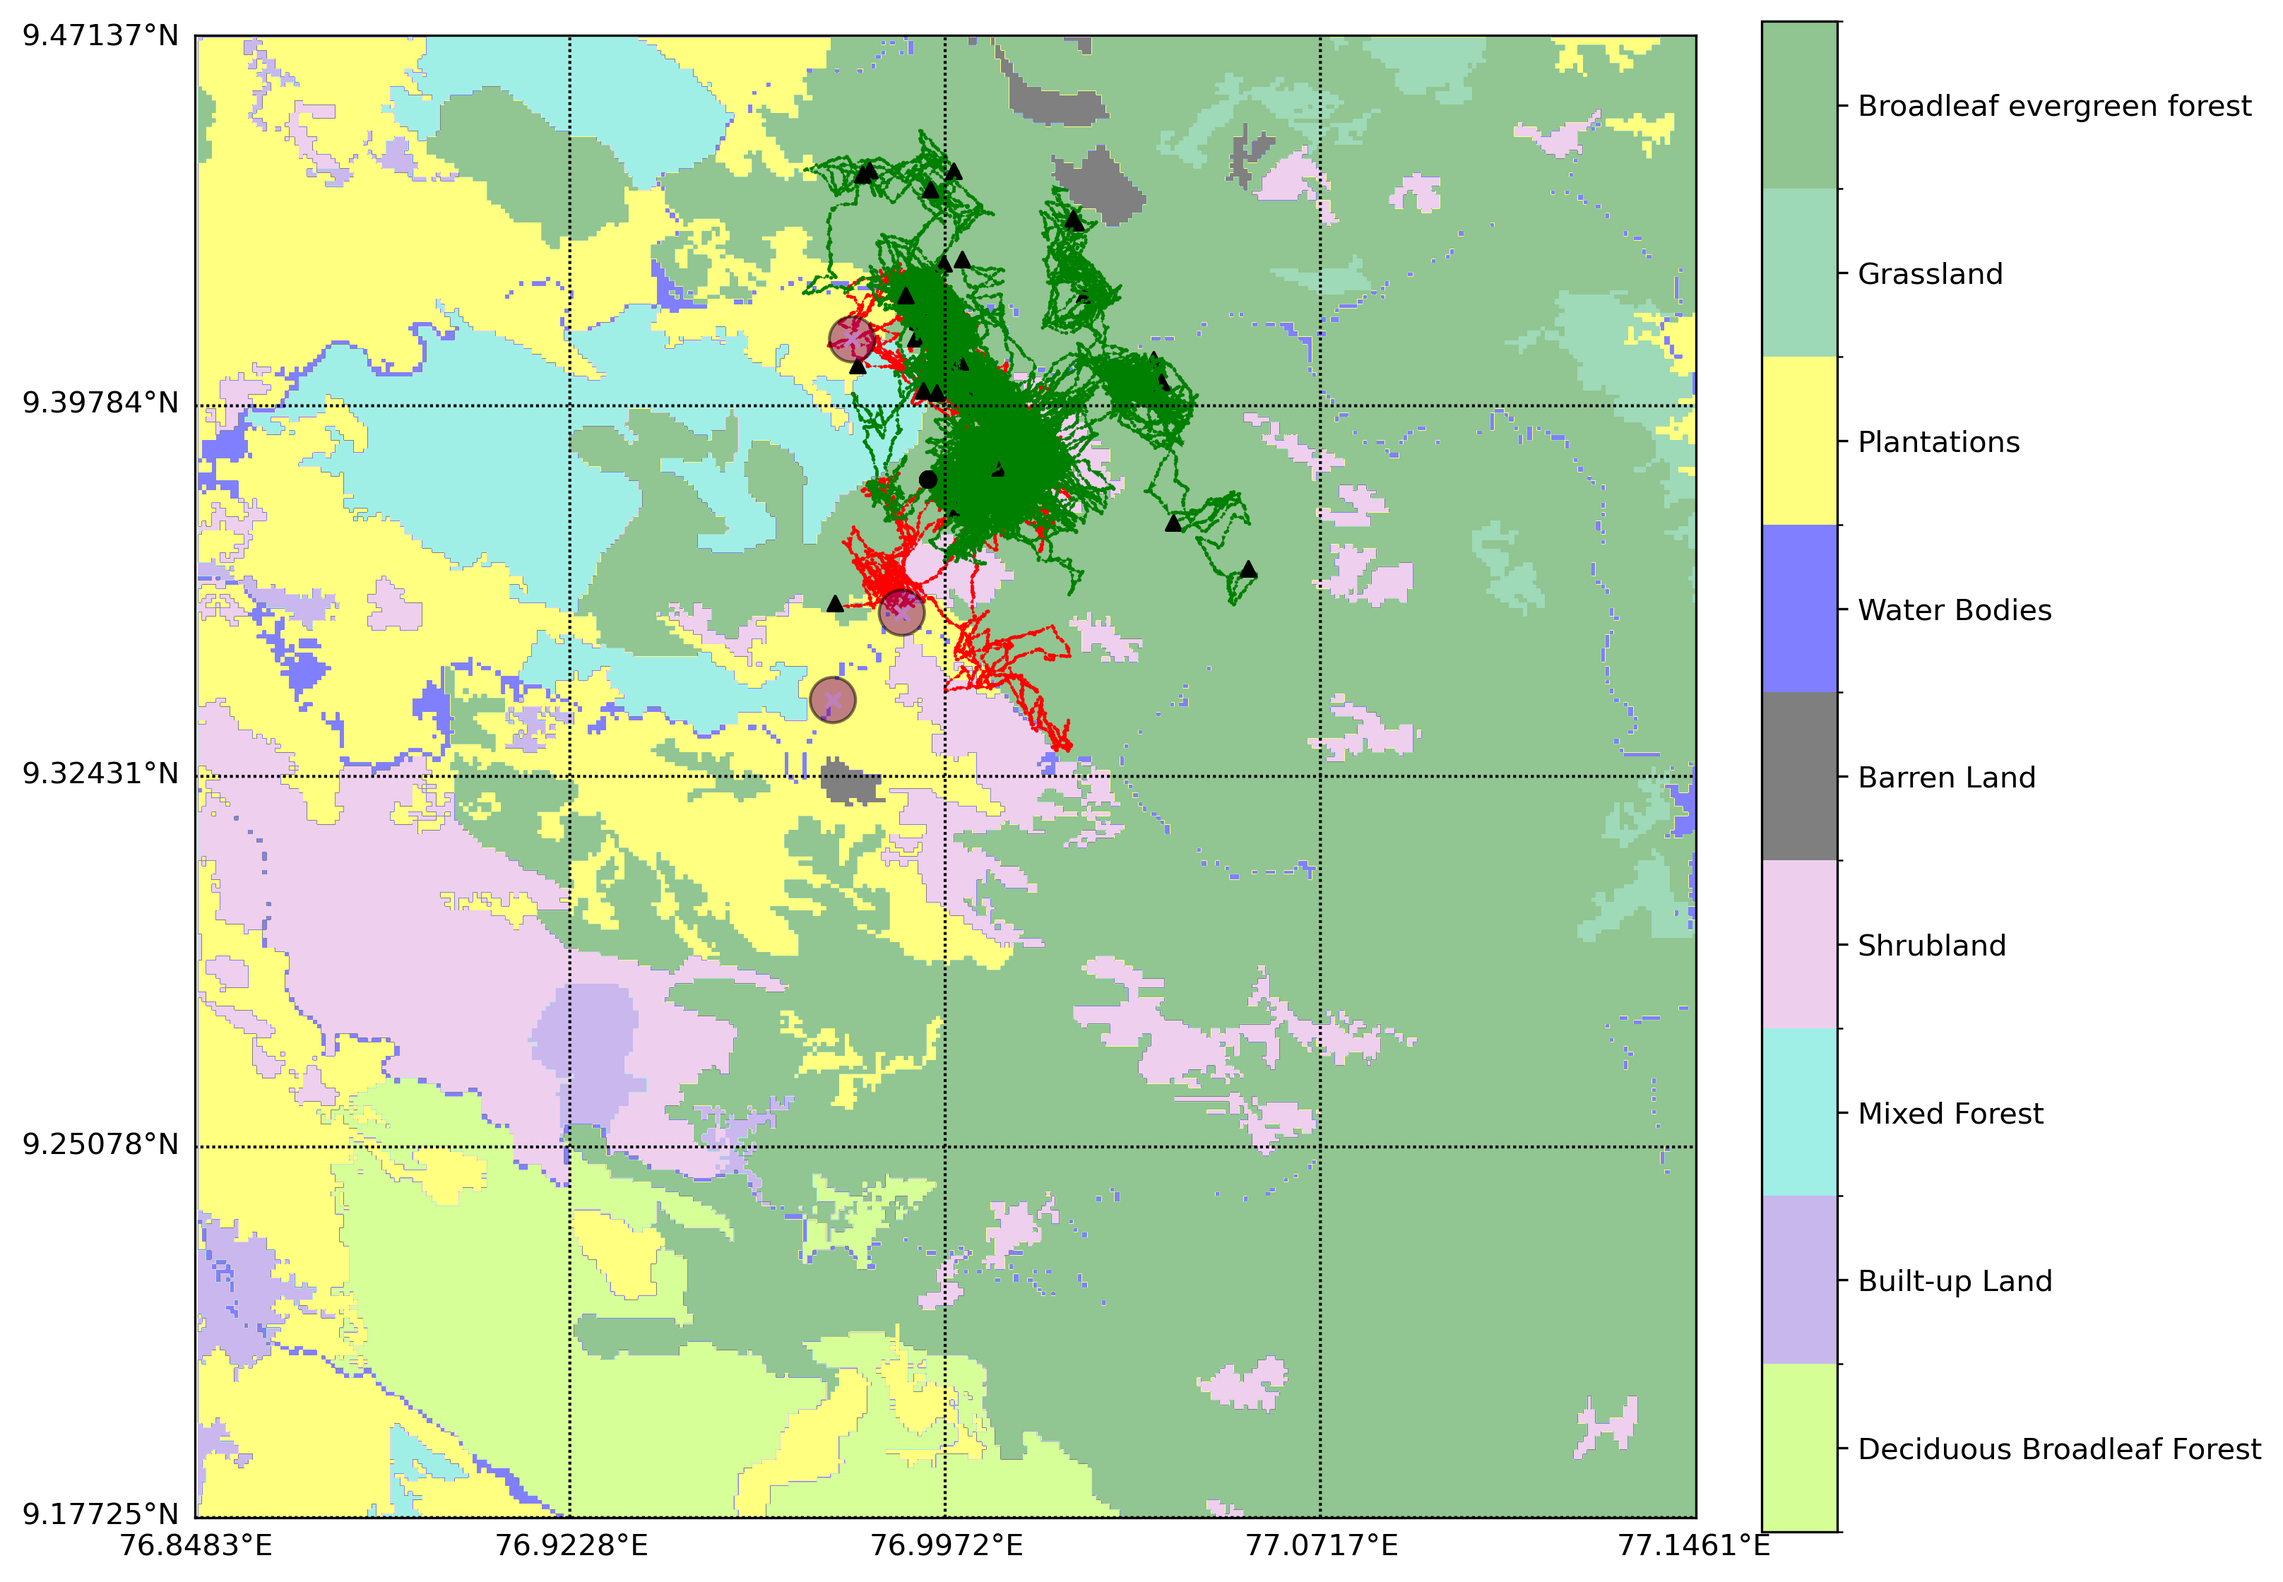
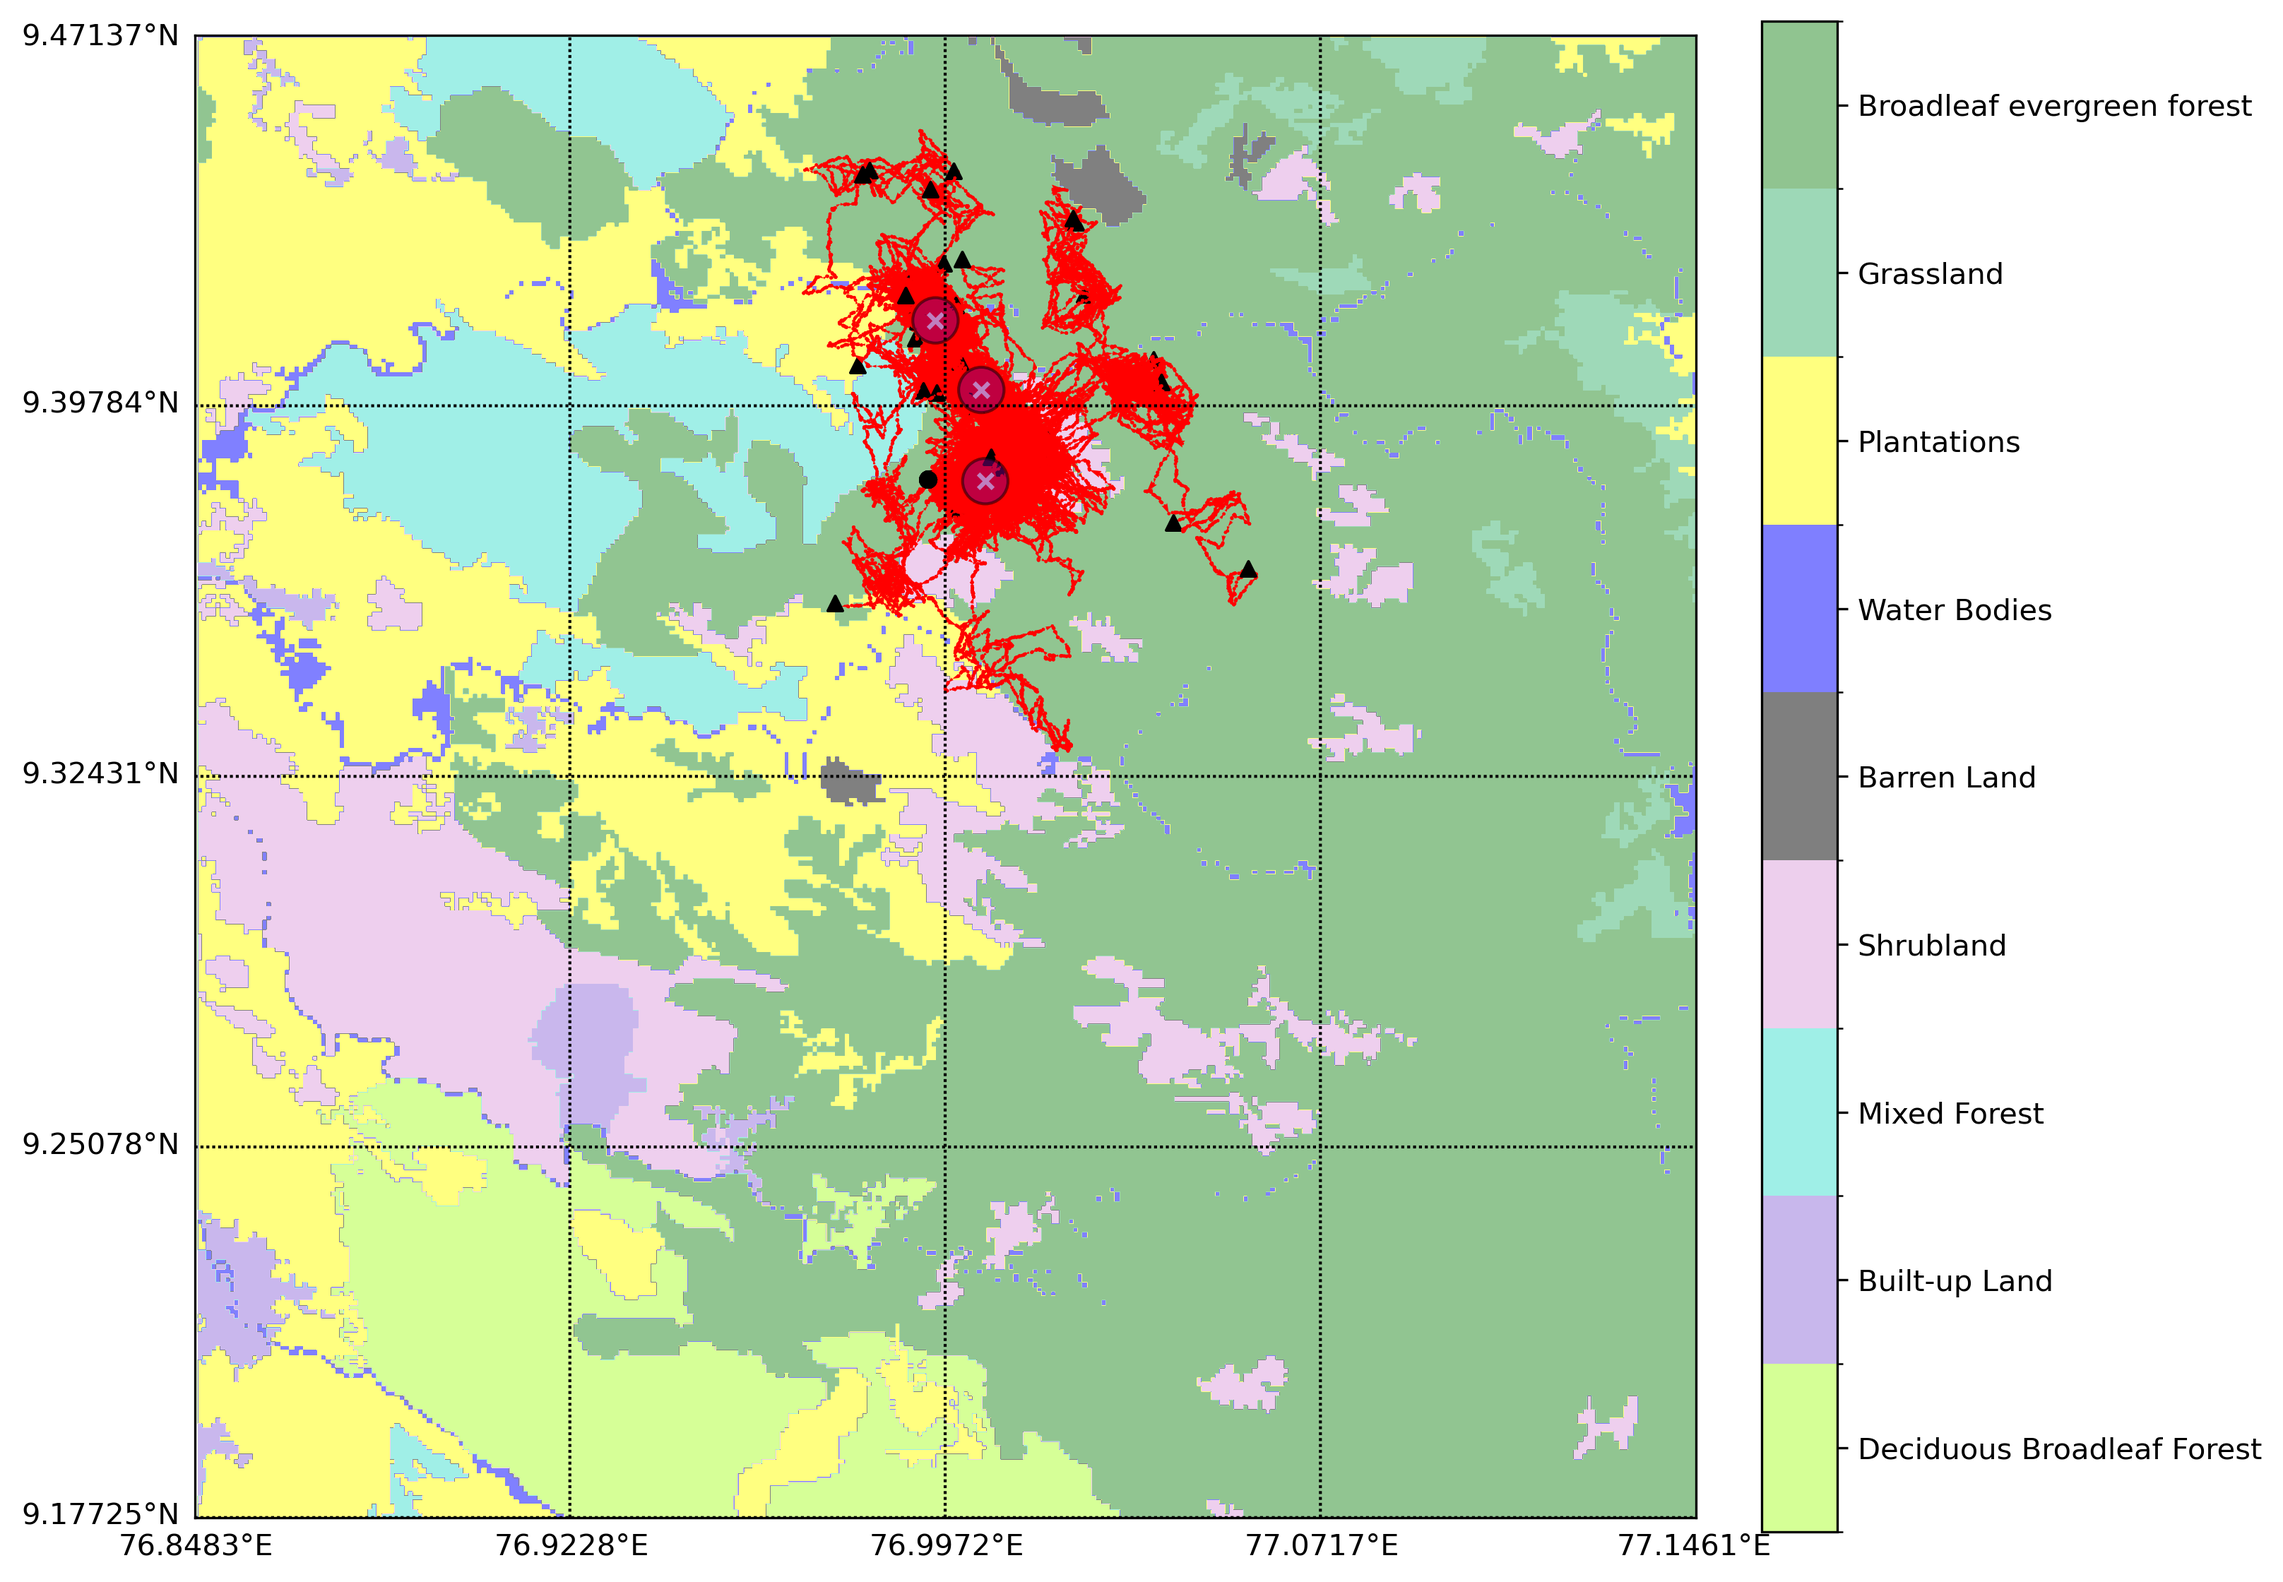
updated ranger placement optimisation

Changed region(s): [[0.3438, 0.0938, 0.5625, 0.375], [0.3438, 0.4062, 0.375, 0.4688], [0.375, 0.375, 0.4062, 0.4062]]

diff --git a/trajectory_analysis/assign_payoff_rangers/optimise_ranger_locations.py b/trajectory_analysis/assign_payoff_rangers/optimise_ranger_locations.py
@@ -34,6 +34,7 @@ class optimise_ranger_locations():
         self.ranger_visibility_radius = ranger_visibility_radius
         self.expt_folder = expt_folder
         self.loss_history = []
+        self.elephant_kde = None
 
         self.get_best_trajectories()
 
@@ -456,15 +457,17 @@ class optimise_ranger_locations():
             y
             ]).T
             
-        elephant_kde  = gaussian_kde(X.T)
+        if self.elephant_kde is None:
+            self.elephant_kde  = gaussian_kde(X.T)
 
-        lat_grid, lon_grid = np.mgrid[min(y): max(y):grid_resolution*1j, min(x): max(x):grid_resolution*1j]
-        positions = np.vstack([lon_grid.ravel(), lat_grid.ravel()])
+            self.lat_grid, self.lon_grid = np.mgrid[min(y): max(y):grid_resolution*1j, min(x): max(x):grid_resolution*1j]
+            positions = np.vstack([self.lon_grid.ravel(), self.lat_grid.ravel()])
+            elephant_density = np.reshape(self.elephant_kde(positions).T, self.lat_grid.shape)
+            self.elephant_density = elephant_density / elephant_density.max() 
+            
+            print("Elephant KDE fitted")
 
-        elephant_density = np.reshape(elephant_kde(positions).T, lat_grid.shape)
-        elephant_density = elephant_density / elephant_density.max() 
-        
-        ranger_coverage = np.zeros_like(elephant_density)
+        ranger_coverage = np.zeros_like(self.elephant_density)
         
         ranger_x, ranger_y = transform(inProj, outProj, 
                                     ranger_positions[:, 0], 
@@ -474,7 +477,7 @@ class optimise_ranger_locations():
         
         for i, (rx, ry) in enumerate(zip(ranger_x, ranger_y)):
 
-            distances = np.sqrt((lon_grid - rx)**2 + (lat_grid - ry)**2)
+            distances = np.sqrt((self.lon_grid - rx)**2 + (self.lat_grid - ry)**2)
 
             # fig, ax = plt.subplots(figsize=(6.8, 6.8))
             # map = Basemap(llcrnrlat=min(y), urcrnrlat=max(y), llcrnrlon=min(x), urcrnrlon=max(x), resolution='l')
@@ -510,13 +513,15 @@ class optimise_ranger_locations():
         map = Basemap(llcrnrlat=min(y), urcrnrlat=max(y), llcrnrlon=min(x), urcrnrlon=max(x), resolution='l')
         map.drawparallels([min(y), max(y)], labels=[True, False, False, True])
         map.drawmeridians([min(x), max(x)], labels=[True, False, False, True])
-        img = ax.imshow(np.flipud((1 - ranger_coverage) * elephant_density), cmap='coolwarm', alpha=0.75, extent=[min(x), max(x), min(y), max(y)], zorder=1)
+        img = ax.imshow(np.flipud((1 - ranger_coverage) * self.elephant_density), cmap='coolwarm', alpha=0.75, extent=[min(x), max(x), min(y), max(y)], zorder=1)
         plt.colorbar(img, ax=ax, orientation='vertical', shrink=0.5)
         plt.savefig(os.path.join(os.getcwd(), "trajectory_analysis/assign_payoff_rangers", 'uncovered_elephant_density.png'), dpi=300, bbox_inches='tight')
 
-        uncovered_score = np.sum((1 - ranger_coverage) * elephant_density) / np.sum(elephant_density)
+        uncovered_score = np.sum((1 - ranger_coverage) * self.elephant_density) / np.sum(self.elephant_density)
         total_cost = uncovered_score
         
+        self.loss_history.append(total_cost)
+
         return total_cost
 
     def plot_kde_95(self, ranger_locations, save_plots=False):
@@ -614,48 +619,52 @@ class optimise_ranger_locations():
 
         plt.close()
 
-    def optimize(self):
+    def optimize(self, starting_positions="kmeans"):
 
         initial_positions = []
 
         all_lons = np.concatenate([traj["longitude"].values for traj in self.best_trajs])
         all_lats = np.concatenate([traj["latitude"].values for traj in self.best_trajs])
 
-        # points = np.column_stack((all_lons, all_lats))
-        # kmeans = KMeans(n_clusters=self.num_rangers, random_state=42)
-        # kmeans.fit(points)
-        # initial_positions = kmeans.cluster_centers_.flatten()
-
-        ds = gdal.Open(os.path.join("mesageo_elephant_project/elephant_project/experiment_setup_files/environment_seethathode/Raster_Files_Seethathode_Derived/area_1100sqKm/reso_30x30/LULC.tif"))
-        data_LULC = ds.ReadAsArray()
-        data_value_map = {1:1, 2:3, 3:4, 4:5, 5:6, 6:9, 7:10, 8:14, 9:15}
-        for i in range(1,10):
-            data_LULC[data_LULC == data_value_map[i]] = i
-        xmin, xres, xskew, ymax, yskew, yres = ds.GetGeoTransform()
-        plantation_indices = np.where(data_LULC == 7)
-        plantation_points = []
-        for py, px in zip(*plantation_indices):
-            lon = xmin + px * xres
-            lat = ymax + py * yres
-            plantation_points.append([lon, lat])
-        plantation_points = np.array(plantation_points)
-
         lon_min = min(all_lons) 
         lon_max = max(all_lons) 
         lat_min = min(all_lats) 
         lat_max = max(all_lats)
 
-        plantation_points = plantation_points[(plantation_points[:,0] >= lon_min) & (plantation_points[:,0] <= lon_max) & (plantation_points[:,1] >= lat_min) & (plantation_points[:,1] <= lat_max)]
-        indices = np.random.choice(len(plantation_points), self.num_rangers, replace=False)
-        plantation_points = plantation_points[indices]
-        initial_positions = plantation_points.flatten()
+        if starting_positions == "kmeans":
+            points = np.column_stack((all_lons, all_lats))
+            kmeans = KMeans(n_clusters=self.num_rangers, random_state=42)
+            kmeans.fit(points)
+            initial_positions = kmeans.cluster_centers_.flatten()
+
+        elif starting_positions == "plantations":
+            ds = gdal.Open(os.path.join("mesageo_elephant_project/elephant_project/experiment_setup_files/environment_seethathode/Raster_Files_Seethathode_Derived/area_1100sqKm/reso_30x30/LULC.tif"))
+            data_LULC = ds.ReadAsArray()
+            data_value_map = {1:1, 2:3, 3:4, 4:5, 5:6, 6:9, 7:10, 8:14, 9:15}
+            for i in range(1,10):
+                data_LULC[data_LULC == data_value_map[i]] = i
+            xmin, xres, xskew, ymax, yskew, yres = ds.GetGeoTransform()
+            plantation_indices = np.where(data_LULC == 7)
+            plantation_points = []
+            for py, px in zip(*plantation_indices):
+                lon = xmin + px * xres
+                lat = ymax + py * yres
+                plantation_points.append([lon, lat])
+            plantation_points = np.array(plantation_points)
+
+            plantation_points = plantation_points[(plantation_points[:,0] >= lon_min) & (plantation_points[:,0] <= lon_max) & (plantation_points[:,1] >= lat_min) & (plantation_points[:,1] <= lat_max)]
+            indices = np.random.choice(len(plantation_points), self.num_rangers, replace=False)
+            plantation_points = plantation_points[indices]
+            initial_positions = plantation_points.flatten()
 
         bounds = [(lon_min, lon_max), (lat_min, lat_max)] * self.num_rangers
+
+        #method='L-BFGS-B', "Nelder-Mead", "BFGS", "Powell"
 
         result = minimize(
             self.cost_function_kde,
             initial_positions,
-            method='Nelder-Mead',
+            method='Powell',
             bounds=bounds,
             options={'maxiter': 1000}
         )
